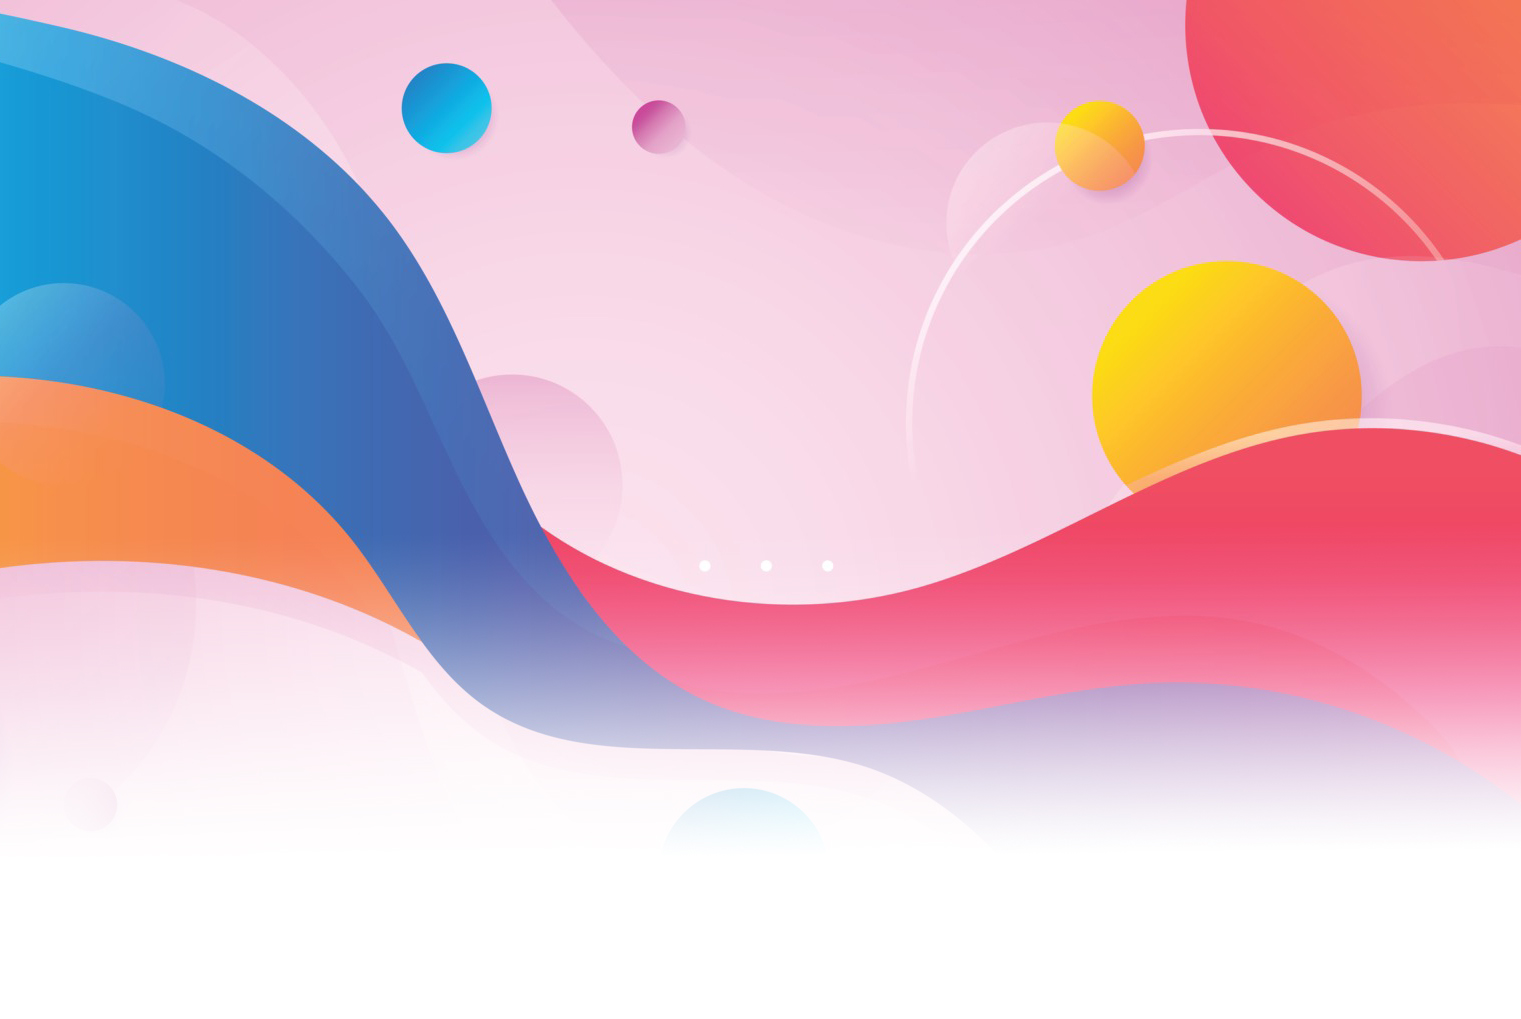
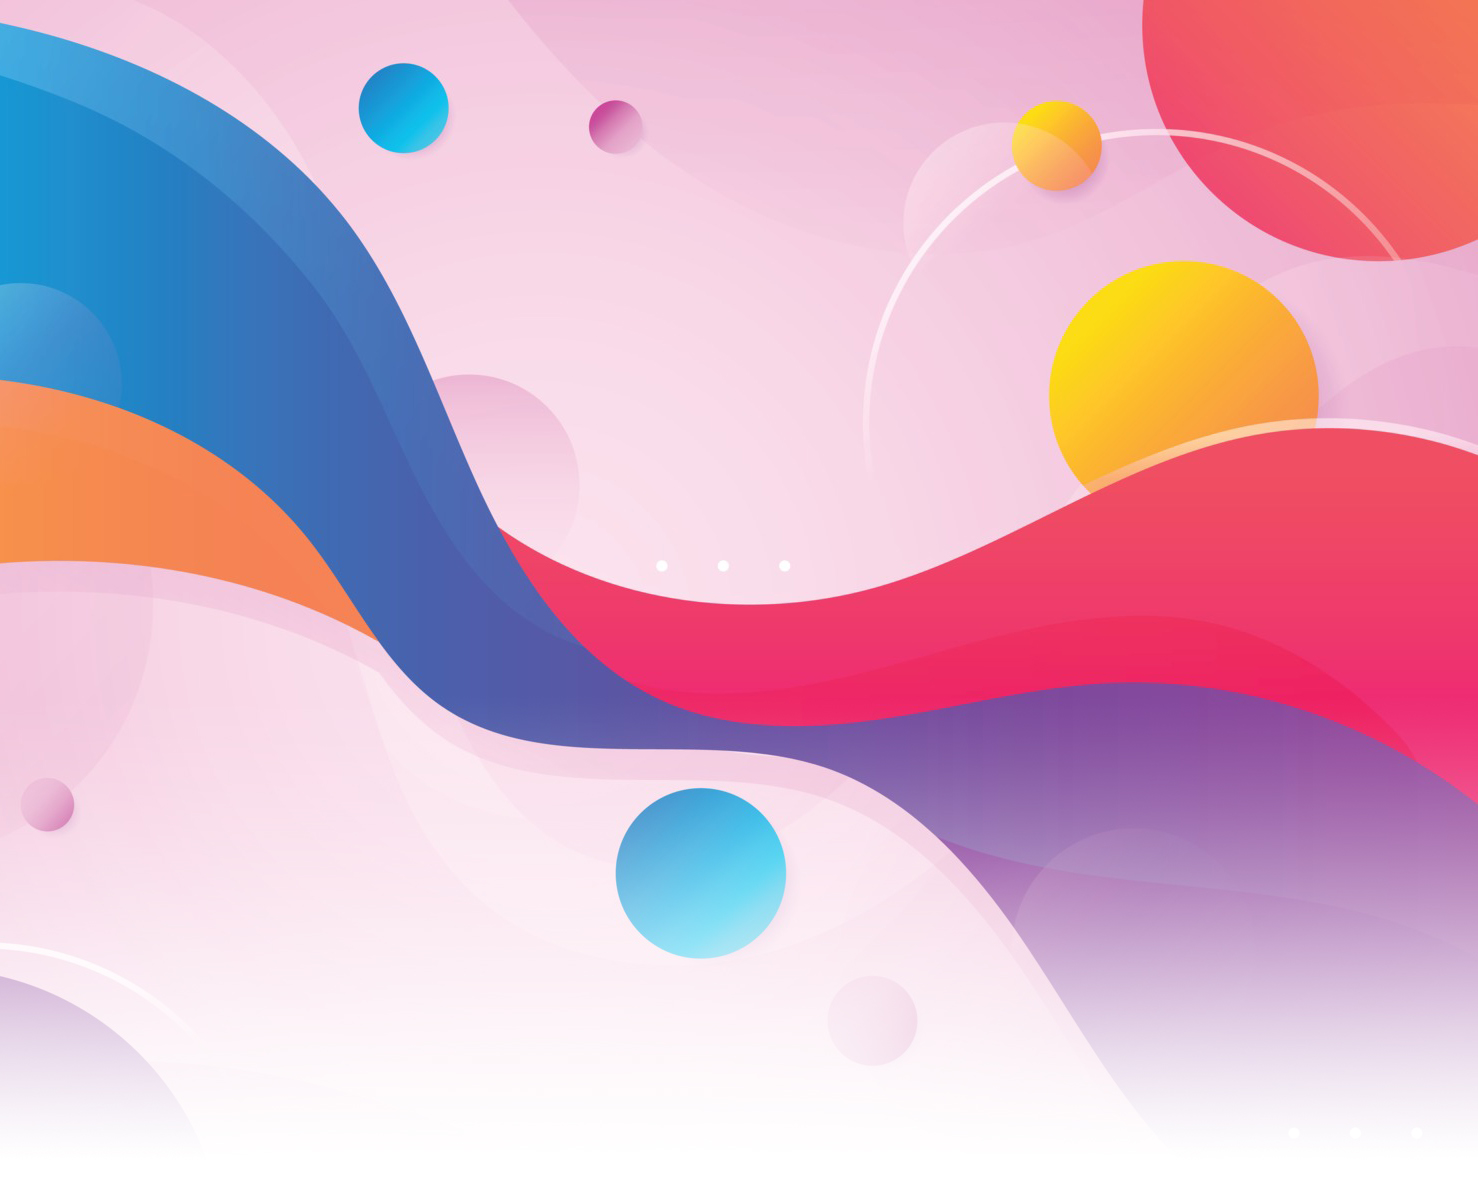
edited title slide

diff --git a/frontend/src/pages/Home.js b/frontend/src/pages/Home.js
@@ -13,7 +13,7 @@ export const Home = () => {
   }
   return (
     <div className="w-screen h-auto pb-20">
-      <div className="w-screen h-screen bg-bottom bg-[url('../public/abstract.jpg')] bg-cover">
+      <div className="w-screen h-600 bg-bottom bg-[url('../public/abstract.jpg')] bg-cover">
         <Navigation />
         <span className='flex justify-center mt-16 px-20'>
           <h1 className="p-0 text-8xl font-extrabold inline-block text-black">Wiki</h1>

diff --git a/frontend/tailwind.config.js b/frontend/tailwind.config.js
@@ -14,6 +14,7 @@ module.exports = {
         'yellow': '#FCDC15'
       }, 
       spacing: {
+        '600': '55rem',
         '800': '80rem',
       }
     },
